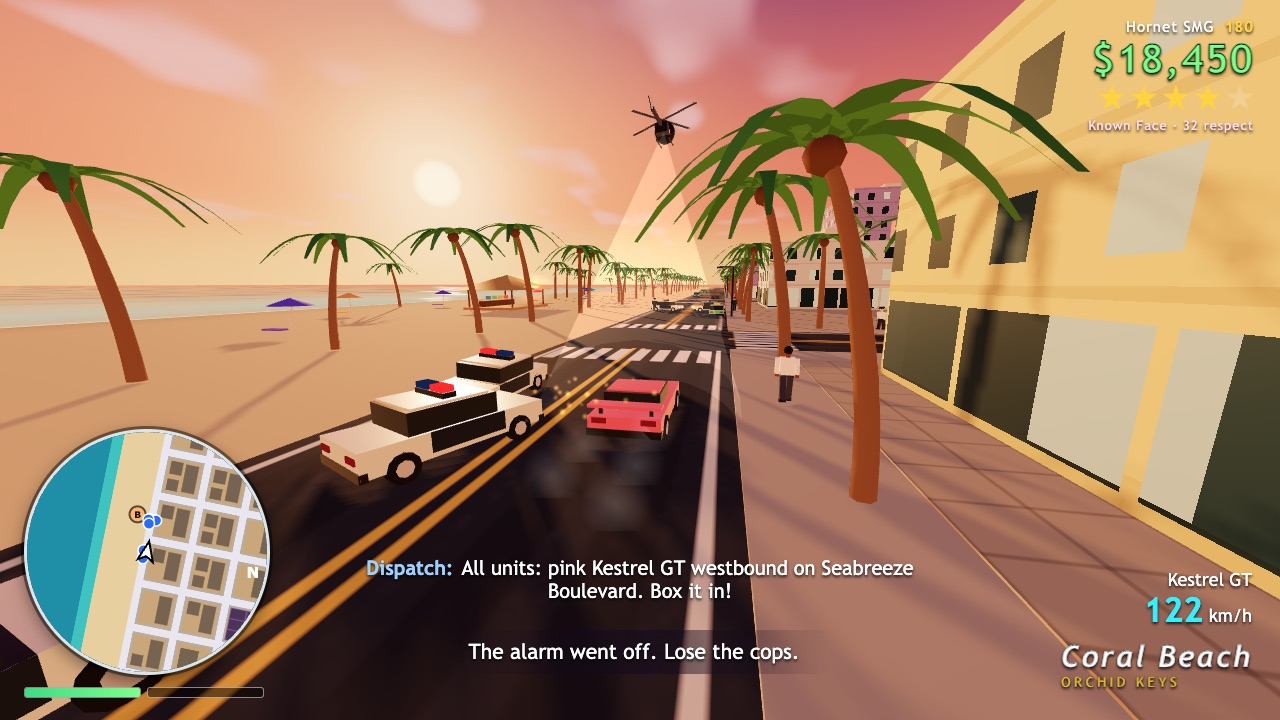
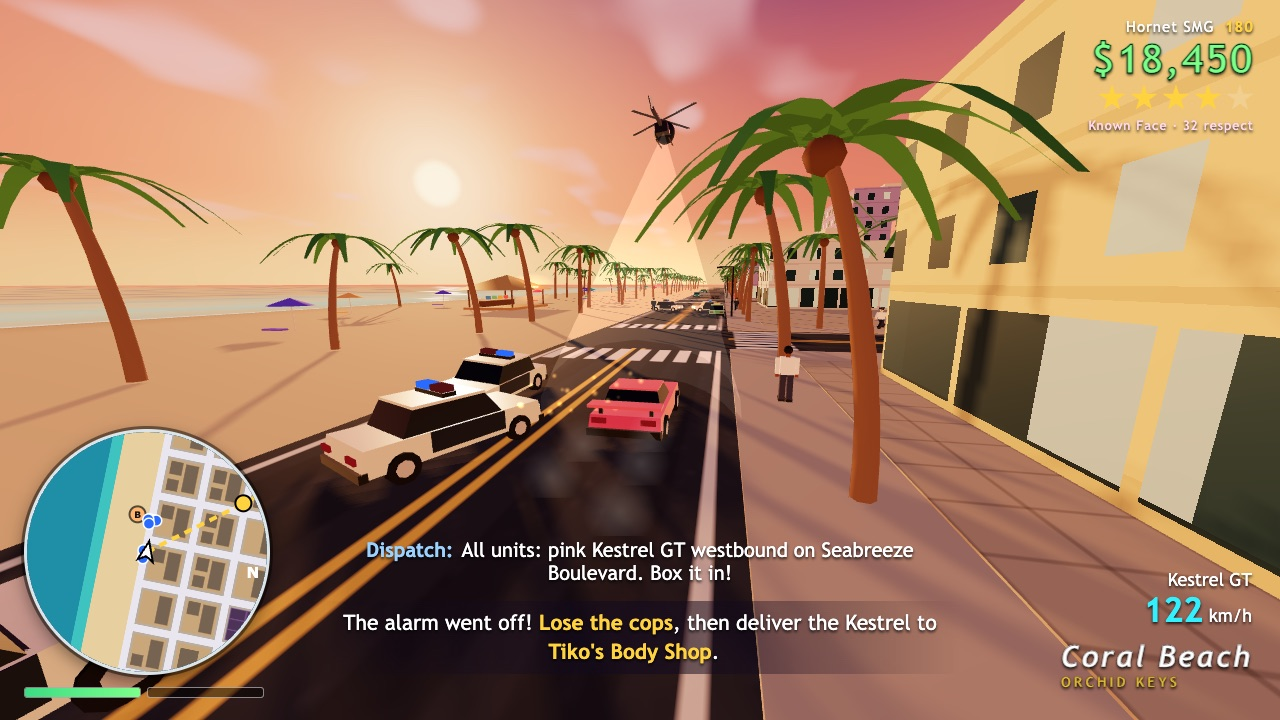
Round 4: combined lose-the-cops delivery objective, sloped car cabins, race grid fix, ground heights, final screenshots

diff --git a/game/src/entities/vehicleModels.js b/game/src/entities/vehicleModels.js
@@ -1,7 +1,7 @@
 // The island's own cars, built from coloured boxes merged into one body mesh each, with
 // separate wheels (they spin and steer), head/tail lights and, for OKPD cruisers, a light bar.
 import * as THREE from 'three';
-import { box, cylinder, merge } from '../world/geometryKit.js';
+import { box, cylinder, merge, paint } from '../world/geometryKit.js';
 
 /** Handling and look for every vehicle model on the island. Speeds in m/s. */
 export const VEHICLE_TYPES = {
@@ -21,14 +21,29 @@ const GLASS = 0x1c2733;
 const TRIM = 0x18181c;
 const geometryCache = new Map();
 
+/** A box whose top face is pulled in (narrower and shorter): sloped windscreens and roofs. */
+function cabin(w, h, d, x, y, z, color, topW = 0.86, topD = 0.7, lean = 0) {
+  const g = new THREE.BoxGeometry(w, h, d);
+  const p = g.attributes.position;
+  for (let i = 0; i < p.count; i++) {
+    if (p.getY(i) > 0) {
+      p.setX(i, p.getX(i) * topW);
+      p.setZ(i, p.getZ(i) * topD + lean);
+    }
+  }
+  g.computeVertexNormals();
+  g.translate(x, y, z);
+  return paint(g, color);
+}
+
 function bodyParts(shape, L, W, color) {
   const p = [];
   const hl = L / 2;
   switch (shape) {
     case 'sports':
-      p.push(box(W, 0.5, L, 0, 0.6, 0, color));
-      p.push(box(W - 0.35, 0.42, 1.7, 0, 1.05, -0.35, GLASS));
-      p.push(box(W - 0.45, 0.06, 1.3, 0, 1.28, -0.4, color));
+      p.push(cabin(W, 0.5, L, 0, 0.6, 0, color, 0.97, 0.93));
+      p.push(cabin(W - 0.3, 0.45, 1.95, 0, 1.07, -0.3, GLASS, 0.84, 0.6, -0.12));
+      p.push(box((W - 0.3) * 0.84 + 0.02, 0.06, 1.17, 0, 1.32, -0.42, color));
       p.push(box(W, 0.08, 0.5, 0, 1.12, -hl + 0.25, color));
       p.push(box(0.1, 0.25, 0.1, -W / 2 + 0.3, 0.95, -hl + 0.3, TRIM));
       p.push(box(0.1, 0.25, 0.1, W / 2 - 0.3, 0.95, -hl + 0.3, TRIM));
@@ -49,15 +64,15 @@ function bodyParts(shape, L, W, color) {
       p.push(box(W, 0.35, 0.12, 0, 1.25, -hl + 0.06, color));
       break;
     case 'convertible':
-      p.push(box(W, 0.6, L, 0, 0.65, 0, color));
-      p.push(box(W - 0.2, 0.32, 0.12, 0, 1.1, 0.55, GLASS));
+      p.push(cabin(W, 0.6, L, 0, 0.65, 0, color, 0.97, 0.94));
+      p.push(cabin(W - 0.2, 0.34, 0.14, 0, 1.11, 0.55, GLASS, 0.95, 1, -0.12));
       p.push(box(W - 0.4, 0.25, 1.4, 0, 0.98, -0.5, 0xd9c7a2));
       break;
     default: {
       // sedan, taxi and police share the saloon body
-      p.push(box(W, 0.62, L, 0, 0.66, 0, color));
-      p.push(box(W - 0.18, 0.55, 2.3, 0, 1.24, -0.2, GLASS));
-      p.push(box(W - 0.26, 0.07, 2.0, 0, 1.54, -0.25, color));
+      p.push(cabin(W, 0.62, L, 0, 0.66, 0, color, 0.98, 0.95));
+      p.push(cabin(W - 0.16, 0.58, 2.55, 0, 1.25, -0.2, GLASS, 0.9, 0.72, -0.06));
+      p.push(box((W - 0.16) * 0.9 + 0.02, 0.07, 1.84, 0, 1.57, -0.26, color));
       if (shape === 'taxi') {
         p.push(box(0.9, 0.3, 0.4, 0, 1.72, -0.2, 0xfff3b0));
         p.push(box(W + 0.02, 0.16, L * 0.6, 0, 0.75, 0, 0x1b4332));

diff --git a/game/src/missions/streetRace.js b/game/src/missions/streetRace.js
@@ -33,8 +33,9 @@ function raceStep() {
         pv.heading = Math.PI / 2;
         pv.vx = pv.vz = 0;
       }
+      const grid = [[0, -3], [-9, 3], [-9, -3]];
       RIVALS.forEach((r, i) => {
-        const v = g.spawnMissionVehicle(r.type, r.color, start.x - 7 - (i % 2) * 7, start.z + (i % 2 ? 3 : -3), Math.PI / 2, 'racer' + i, false);
+        const v = g.spawnMissionVehicle(r.type, r.color, start.x + grid[i][0], start.z + grid[i][1], Math.PI / 2, 'racer' + i, false);
         v.driver = 'racer';
         const agent = new DrivingAgent(v, rng.next);
         agent.routeTo(RACE_CHECKPOINTS[0].x, RACE_CHECKPOINTS[0].z);
@@ -72,7 +73,9 @@ function raceStep() {
         if (r.done || r.v.destroyed || r.v.driver !== 'racer') continue;
         const lead = r.cp - s.cp;
         const top = 34 * r.skill * (lead > 0 ? 0.88 : lead < 0 ? 1.12 : 1);
-        if (r.agent.updateRoute(dt, g.vehicles.list.filter((v) => v !== r.v && v.role === 'traffic'), top, true, 10)) {
+        // rivals brake for civilians, never for the player: they will trade paint instead
+        const traffic = g.vehicles.list.filter((v) => v !== r.v && v.role === 'traffic' && v.driver !== 'player');
+        if (r.agent.updateRoute(dt, traffic, top, true, 10)) {
           r.cp++;
           if (r.cp >= RACE_CHECKPOINTS.length) { r.done = true; s.finished.push(r.name); r.v.controls.throttle = 0; r.v.controls.handbrake = true; }
           else r.agent.routeTo(RACE_CHECKPOINTS[r.cp].x, RACE_CHECKPOINTS[r.cp].z);

diff --git a/game/src/missions/missionSteps.js b/game/src/missions/missionSteps.js
@@ -43,7 +43,10 @@ export const goTo = (place, text, opts = {}) => ({
     if (opts.vehicle === 'none' && v) return null;
     if (opts.vehicle && opts.vehicle !== 'any' && opts.vehicle !== 'none' && !(v && v.tags.has(opts.vehicle))) return null;
     if (opts.slow && v && v.absSpeed > 8) return null;
-    return ctx.game.markers.inside(MARK + 'goto', pl.pos.x, pl.pos.z, v ? 1.5 : 0) ? 'done' : null;
+    const there = ctx.game.markers.inside(MARK + 'goto', pl.pos.x, pl.pos.z, v ? 1.5 : 0);
+    // some drop-offs refuse to open while OKPD is still on your tail
+    if (there && opts.noHeat && ctx.game.wanted.stars > 0) { ctx.game.hud.hint('Lose the cops first: nobody opens the door with OKPD outside.'); return null; }
+    return there ? 'done' : null;
   },
   exit(ctx) { ctx.game.markers.remove(MARK + 'goto'); ctx.game.setObjectiveTarget(null); },
 });

diff --git a/game/css/hud.css b/game/css/hud.css
@@ -46,7 +46,7 @@ html, body { margin: 0; height: 100%; overflow: hidden; background: #1a1220; fon
 #hud-objective:empty, #hud-objective.none { display: none; }
 #hud-objective-text b { color: var(--gold); }
 #hud-timer { margin-left: 12px; color: var(--gold); font-weight: bold; }
-#hud-dialog { position: absolute; left: 50%; bottom: 118px; transform: translateX(-50%); max-width: 62%; text-align: center; font-size: 20px; opacity: 0; transition: opacity 0.25s; }
+#hud-dialog { position: absolute; left: 50%; bottom: 136px; transform: translateX(-50%); max-width: 62%; text-align: center; font-size: 20px; opacity: 0; transition: opacity 0.25s; }
 #hud-dialog.show { opacity: 1; }
 #hud-dialog b { margin-right: 8px; }
 #hud-banner { position: absolute; top: 24%; left: 0; right: 0; text-align: center; opacity: 0; transition: opacity 0.4s; }

diff --git a/game/src/entities/character.js b/game/src/entities/character.js
@@ -4,13 +4,19 @@
 import * as THREE from 'three';
 import { clamp, dampAngle } from '../core/mathUtils.js';
 import { animateHuman, buildHuman } from './humanModel.js';
+import { CITY } from '../config.js';
 import { isOnRoad } from '../world/cityPlan.js';
+import { onPier } from '../world/coastline.js';
 import { SIDEWALK_HEIGHT } from '../world/cityBuilder.js';
 
 let nextId = 1;
 
+const CITY_EDGE = CITY.half + CITY.roadWidth / 2;
+
+/** Height of the surface underfoot: kerbed sidewalks and lots, pier decks, else sand and asphalt. */
 export function groundHeight(x, z) {
-  return isOnRoad(x, z) ? 0 : SIDEWALK_HEIGHT;
+  if (Math.abs(x) <= CITY_EDGE && Math.abs(z) <= CITY_EDGE) return isOnRoad(x, z) ? 0 : SIDEWALK_HEIGHT;
+  return onPier(x, z) ? 0.25 : 0;
 }
 
 export class Character {

diff --git a/game/src/missions/storyMissions.js b/game/src/missions/storyMissions.js
@@ -86,8 +86,7 @@ export const STORY_MISSIONS = [
       enterTagged('kestrel', 'Steal the pink Kestrel GT.'),
       say(line('radio', 'All units, alarm at Halcyon Marina, pink Kestrel GT, suspect armed.')),
       setWanted(2),
-      loseWanted('The alarm went off. Lose the cops.'),
-      goTo(at('garage', 6, 0), "Deliver the Kestrel to Tiko's Body Shop.", { vehicle: 'kestrel', radius: 5, slow: true, label: "TIKO'S" }),
+      goTo(at('garage', 6, 0), "The alarm went off! <b>Lose the cops</b>, then deliver the Kestrel to <b>Tiko's Body Shop</b>.", { vehicle: 'kestrel', radius: 5, slow: true, noHeat: true, label: "TIKO'S" }),
       say(line('tiko', 'Look at her. Not a scratch. Okay, a scratch. She lives in my garage now, under your name.')),
     ],
   },

diff --git a/game/src/shots/shotDirector.js b/game/src/shots/shotDirector.js
@@ -73,7 +73,7 @@ function stageChase(game) {
   game.player.enterVehicle(car);
   game.player.giveWeapon('smg', 180);
   game.player.weapon = 'smg';
-  jumpToStep(game, 3, 'The alarm went off');
+  jumpToStep(game, 3, 'The alarm went off!');
   game.missions.active.vehicles.push(car);
   game.wanted.setAtLeast(4);
   game.dialog.queue([line('radio', 'All units: pink Kestrel GT westbound on Seabreeze Boulevard. Box it in!', 30)]);

diff --git a/game/src/entities/humanModel.js b/game/src/entities/humanModel.js
@@ -62,8 +62,8 @@ export function buildHuman(look) {
   const limb = (geo, x, y) => {
     const pivot = new THREE.Group();
     pivot.position.set(x, y, 0);
+    // limbs are too thin to matter in the shadow map; only the torso casts
     const m = new THREE.Mesh(geo, material);
-    m.castShadow = true;
     pivot.add(m);
     body.add(pivot);
     return pivot;
